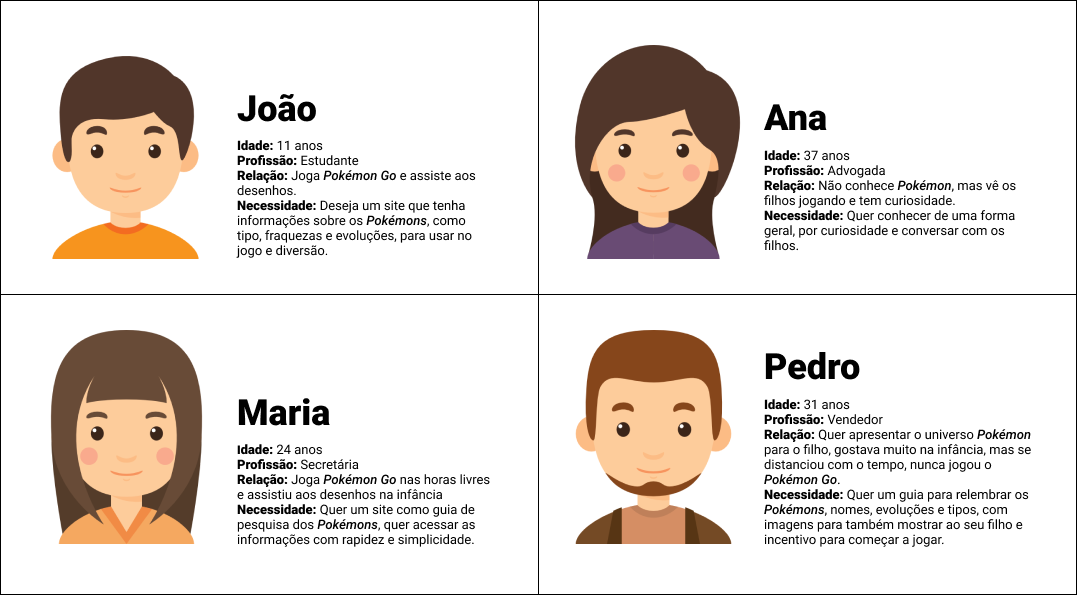
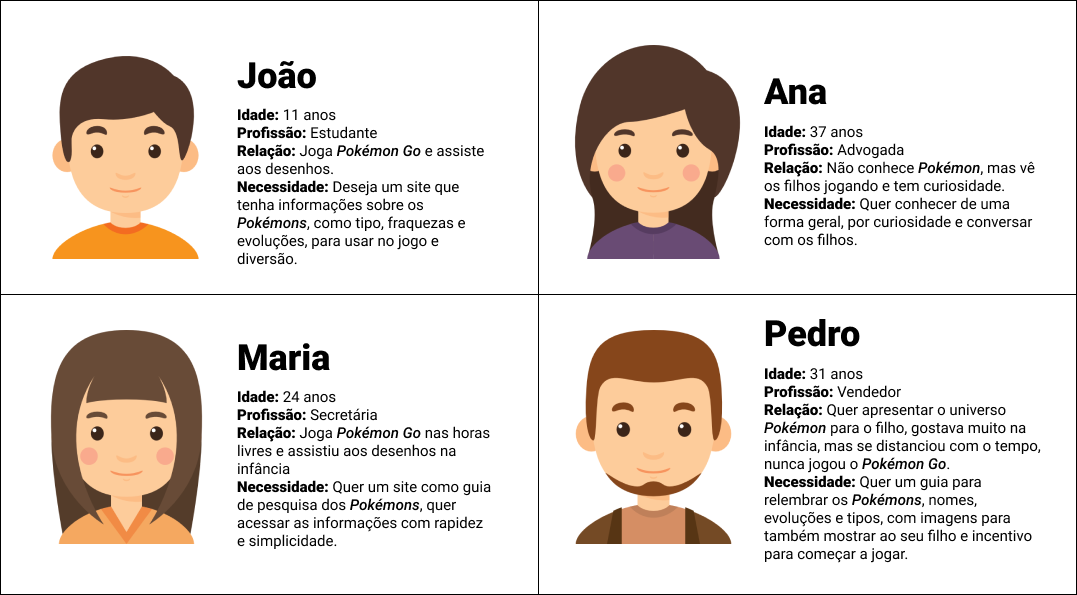
Atualização de imagem e alteração de tamanho

diff --git a/README.md b/README.md
@@ -9,7 +9,7 @@ https://naereloire.github.io/SAP004-data-lovers/
 O projeto **Pokelovers**, se trata de uma página WEB com visualização de um conjunto de dados, que se adequa a necessidade do usuário. 
 Nela é possível ao usuário, pesquisar dados, filtra-los, ordená-los e fazer algum calculo agregado.
 
-`Cálculo agregado se refere aos diversos cálculos que podem ser feitos com os dados para mostrar a informação mais relevante para os usuários (médias, valores máximos e mínimos, etc).`
+> Cálculo agregado se refere aos diversos cálculos que podem ser feitos com os dados para mostrar a informação mais relevante para os usuários (médias, valores máximos e mínimos, etc).
 
 Utilizamos o banco de dados do anime **Pokémon**.
 
@@ -25,7 +25,9 @@ Utilizamos o banco de dados do anime **Pokémon**.
 #### 1.1 Identificação do usuário:
 Como início da nossa definição de usuário criamos personas, que representam nossos possíveis usuários e suas necessidades, para assim compreender e planejar as soluções que deveríamos oferecer em nossa aplicação.
 
-![personas](/src/img/personas.png)
+<p align="center">
+<img src="./src/img/personas.png" width="300"/>
+</p>
 
 Também fizemos uma pesquisa de preferências, para a definição dos dados e informações disponíveis ao usuário de acordo com suas reais necessidades.
 
@@ -39,7 +41,10 @@ Com estes dados então definimos nossas Histórias de usuário e o protótipo pa
 Define-se wireframe como um esqueleto, um protótipo ou uma versão bastante primitiva do visual de um projeto.
 Nesse projeto o Wireframe foi definido, pensando na experiência do usuário conforme esboço abaixo, realizado na ferramenta [Figma](https://www.figma.com/).
 
-![protótipo](/src/img/prototipo.png)
+<p align="center">
+<img src="./src/img/prototipo.png" width="300"/>
+</p>
+
 
 #### 1.2 Organização:
 
@@ -69,12 +74,12 @@ Foi utilizado também _Node.js, Git e GitHub_.
 
 [GIF GATINHO DIGITANDO]
 
-:warning: Para executar os comandos você precisará de um UNIX Shell, que é um programa que interpreta linhas de comando e também deve ter o git instalado. 
+>:warning: Para executar os comandos você precisará de um UNIX Shell, que é um programa que interpreta linhas de comando e também deve ter o git instalado. 
 Se você usa um sistema operacional como GNU/Linux ou MacOS, você já tem um _shell_ (terminal) instalado (e provavelmente o `git` também). 
 Se você usa Windows pode baixar a versão completa do [Cmder](https://cmder.net/) que inclue o [Git bash](https://git-scm.com/download/win), embora seja recomendado que você teste GNU/Linux. 
 Se tem Windows 10 ou superior pode usar o [Windows Subsystem for Linux](https://docs.microsoft.com/en-us/windows/wsl/install-win10).
 
-Será necessária também a instalação do [Node.js](https://nodejs.org/) que contém o [npm](https://docs.npmjs.com/)
+>Será necessária também a instalação do [Node.js](https://nodejs.org/) que contém o [npm](https://docs.npmjs.com/)
 ****
 
 * [Clone](https://help.github.com/articles/cloning-a-repository/) o projeto na sua máquina executando o seguinte comando no seu terminal:
